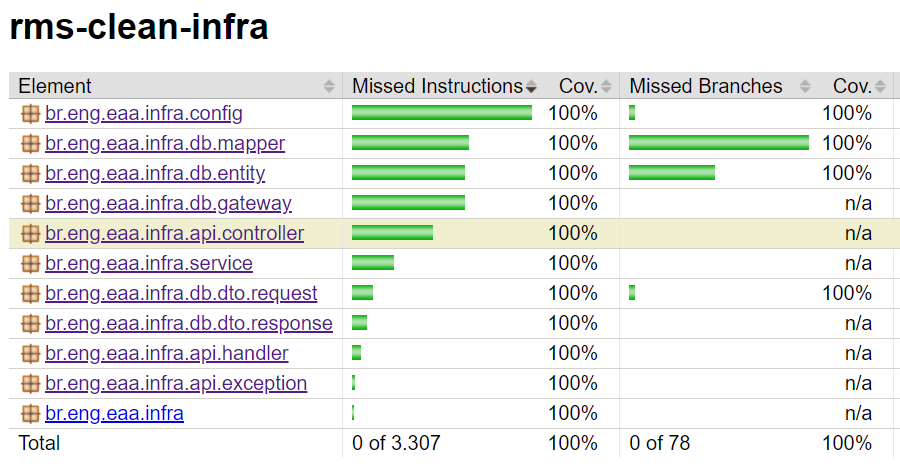
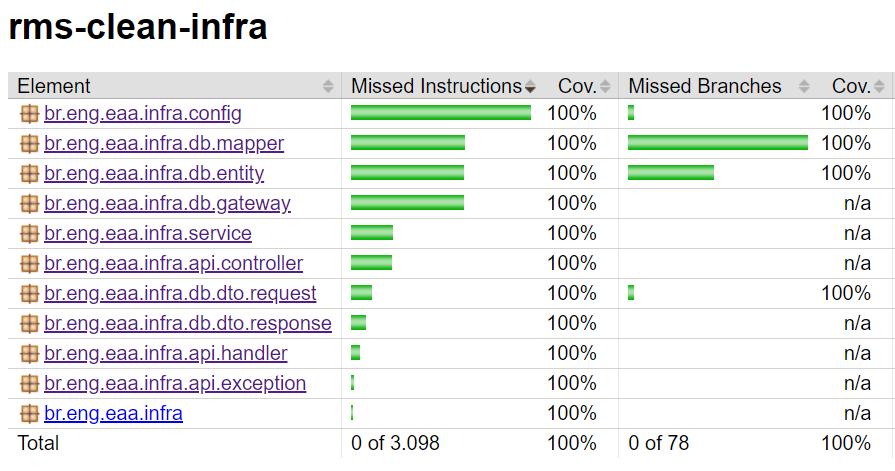
First commit

Changed region(s): [[0.0, 0.1493, 1.0, 0.9851], [0.0, 0.0299, 0.181, 0.0896], [0.2112, 0.0299, 0.3017, 0.0896]]

diff --git a/README.md b/README.md
@@ -427,7 +427,7 @@ A documentação pode ser acessada através da URL: [swagger-ui](http://localhos
 
 Para avaliar a qualidade do código, foi usado o SonarQube. A figura abaixo mostra o resultado da análise.
 
-![img.png](img.png)
+![img.png](.img/img_9.png)
 
 ### ci.yml
 ```yaml
@@ -508,13 +508,13 @@ jobs:
 Para avaliar a cobertura de testes do sistema foi utilizada a biblioteca do Jacoco. As imagens abaixo mostram a cobertura de testes do sistema, que está acima de 90% para os casos de uso implementados.
 
 ### Módulo Core
-![img.png](.img/img_9.png)
+![img_2.png](.img/img_11.png)
 
 ### Módulo Infra
 ![img_1.png](.img/img_10.png)
 
 ## 7. Repositório do Código
-O código-fonte do sistema está disponível no repositório do GitHub: [rms-clean](
+O código-fonte do sistema está disponível no repositório do GitHub: [rms-clean](https://github.com/EduardoAguiarDeAraujo/eaa-postech-rms-app)
 
 ## Referências 
 MARTIN, Robert C. Clean Architecture: A Craftsman's Guide to Software Structure and Design. Boston: Pearson Education, 2018.
